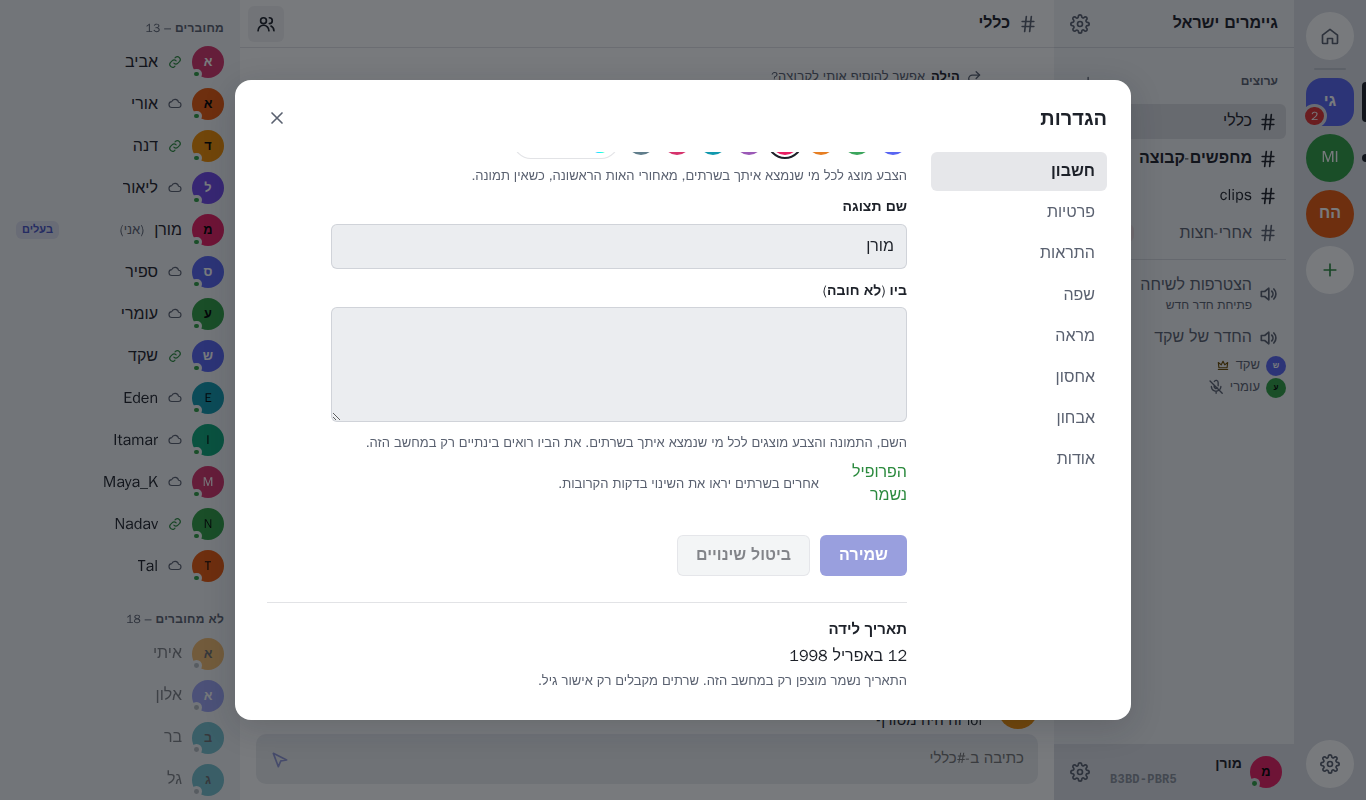
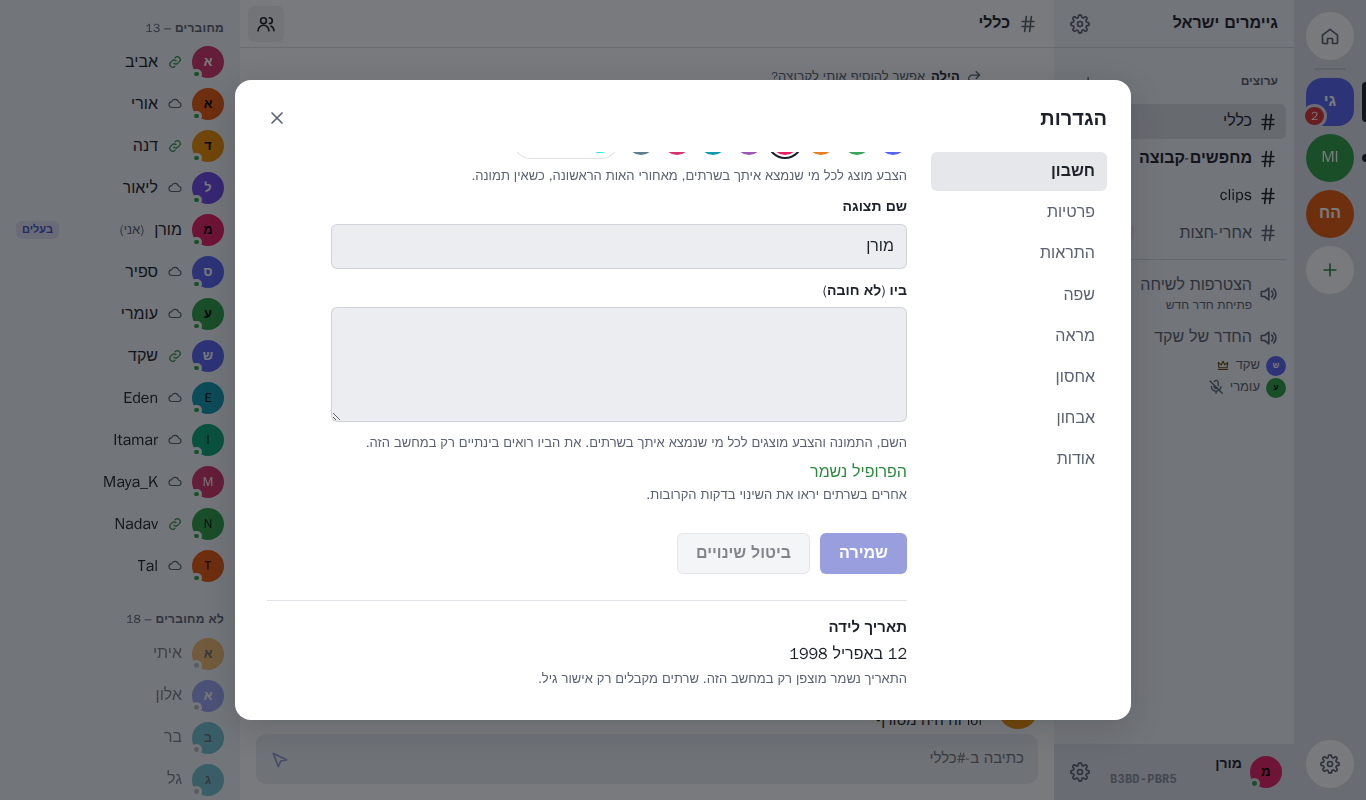
ui: profile editor status stacks "Profile saved" and the later-line (UX on #381)
.success is inline-flex (a row), so the span's flex-basis did nothing; in the
profile actions it is now a column. Shot 400 re-taken.

diff --git a/ui/src/styles/app.css b/ui/src/styles/app.css
@@ -3411,8 +3411,9 @@ input.switch:disabled {
   }
 }
 
-/* Profile save (0.4.5): "others will see it later" under "Profile saved". */
-.saved-later {
-  display: block;
-  flex-basis: 100%;
+/* Profile save (0.4.5): "Profile saved", then "others will see it later" on its own line (UX on #381). */
+.profile-actions .success {
+  flex-direction: column;
+  align-items: flex-start;
+  gap: 0.125rem;
 }
